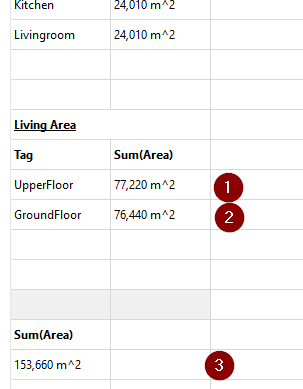
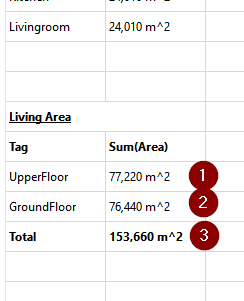
Add more controls to report config
This gives the user more freedom for designing a report. It is now
possible to add result rows for previous statements by checking the
right checkboxes.

fixes #6

Changed region(s): [[0.0, 0.0, 1.0, 1.0]]

diff --git a/report.py b/report.py
@@ -13,6 +13,7 @@ from PySide2.QtWidgets import QGroupBox
 from PySide2.QtWidgets import QLineEdit
 from PySide2.QtWidgets import QFormLayout
 from PySide2.QtWidgets import QPushButton
+from PySide2.QtWidgets import QCheckBox
 
 SQL_PARSER = freecad_sql_parser.newParser()
 
@@ -34,7 +35,11 @@ def nextColumnName(actualColumnName):
 
 
 def lineRange(startColumn, endColumn, lineNumber):
-    return '%s%s:%s%s' % (startColumn, lineNumber, endColumn, lineNumber)
+    return cellRange(startColumn, lineNumber, endColumn, lineNumber)
+
+
+def cellRange(startColumn, startLine, endColumn, endLine):
+    return '%s%s:%s%s' % (startColumn, startLine, endColumn, endLine)
 
 
 def buildCellName(columnName, lineNumber):
@@ -88,7 +93,11 @@ class ReportSpreadsheet(object):
 
         self.lineNumber += 1
 
-    def printRows(self, rows):
+    def printRows(self, rows, skipRowsAfter=False, printResultInBold=False):
+        lineNumberBefore = self.lineNumber
+
+        columnName = 'A'
+
         for row in rows:
             columnName = None
 
@@ -100,7 +109,12 @@ class ReportSpreadsheet(object):
 
             self.lineNumber += 1
 
-        self.lineNumber += 2
+        if printResultInBold:
+            self.spreadsheet.setStyle(
+                cellRange('A', lineNumberBefore, columnName, self.lineNumber), 'bold', 'add')
+
+        if not skipRowsAfter:
+            self.lineNumber += 2
 
     def setCellValue(self, cell, value):
         if value is None:
@@ -123,7 +137,7 @@ class ReportSpreadsheet(object):
 
 
 class ReportEntryWidget(QGroupBox):
-    def __init__(self, header, statement, panel, index):
+    def __init__(self, header, statement, skipRowsAfter, skipColumnNames, printResultInBold, panel, index):
         super().__init__()
 
         self.panel = panel
@@ -131,7 +145,14 @@ class ReportEntryWidget(QGroupBox):
 
         self.headerEdit = QLineEdit(header)
         self.statementEdit = QTextEdit(statement)
+        self.skipRowsAfterEdit = QCheckBox('Skip Empty Rows After Statement')
+        self.skipColumnNamesEdit = QCheckBox('Skip Column Names')
+        self.printResultInBoldEdit = QCheckBox('Print Result in bold')
         self.removeButton = QPushButton('Remove')
+
+        self.skipRowsAfterEdit.setChecked(skipRowsAfter)
+        self.skipColumnNamesEdit.setChecked(skipColumnNames)
+        self.printResultInBoldEdit.setChecked(printResultInBold)
 
         self.removeButton.clicked.connect(self.remove)
 
@@ -142,6 +163,9 @@ class ReportEntryWidget(QGroupBox):
 
         self.layout.addRow('Header', self.headerEdit)
         self.layout.addRow('Statement', self.statementEdit)
+        self.layout.addRow(' ', self.skipColumnNamesEdit)
+        self.layout.addRow(' ', self.skipRowsAfterEdit)
+        self.layout.addRow(' ', self.printResultInBoldEdit)
         self.layout.addRow(' ', self.removeButton)
 
         self.setLayout(self.layout)
@@ -152,10 +176,16 @@ class ReportEntryWidget(QGroupBox):
     def getStatement(self):
         return self.statementEdit.toPlainText()
 
-    def remove(self):
-        print(self.panel)
-        print(self.panel.entries)
+    def shouldSkipColumnNames(self):
+        return self.skipColumnNamesEdit.isChecked()
 
+    def shouldSkipRowsAfter(self):
+        return self.skipRowsAfterEdit.isChecked()
+
+    def shouldPrintResultInBold(self):
+        return self.printResultInBoldEdit.isChecked()
+
+    def remove(self):
         self.panel.removeRow(self)
 
 
@@ -177,10 +207,12 @@ class ReportConfigPanel():
 
     def setupRows(self):
         for statement in self.report.statements:
-            self.addRow(statement.header, statement.plainTextStatement)
+            self.addRow(statement.header, statement.plainTextStatement,
+                        statement.skipRowsAfter, statement.skipColumnNames, statement.printResultInBold)
 
-    def addRow(self, header=None, statement=None):
-        widget = ReportEntryWidget(header, statement, self, len(self.entries))
+    def addRow(self, header=None, statement=None, skipRowsAfter=False, skipColumnNames=False, printResultInBold=False):
+        widget = ReportEntryWidget(header, statement, skipRowsAfter,
+                                   skipColumnNames, printResultInBold, self, len(self.entries))
 
         self.entries.append(widget)
 
@@ -207,16 +239,19 @@ class ReportConfigPanel():
 
         for entry in self.entries:
             reportStatement = ReportStatement(
-                entry.getHeader(), entry.getStatement())
+                entry.getHeader(), entry.getStatement(), entry.shouldSkipRowsAfter(), entry.shouldSkipColumnNames(), entry.shouldPrintResultInBold())
 
             self.report.statements.append(reportStatement)
 
 
 class ReportStatement(object):
-    def __init__(self, header, plainTextStatement):
+    def __init__(self, header, plainTextStatement, skipRowsAfter=False, skipColumnNames=False, printResultInBold=False):
         self.header = header
         self.plainTextStatement = plainTextStatement
         self.statement = SQL_PARSER.parse(plainTextStatement)
+        self.skipRowsAfter = skipRowsAfter
+        self.skipColumnNames = skipColumnNames
+        self.printResultInBold = printResultInBold
 
         if DEBUG:
             print('parsed statement %s' % (plainTextStatement))
@@ -229,12 +264,14 @@ class ReportStatement(object):
         return self.statement.getColumnNames()
 
     def serializeState(self):
-        return [self.header, self.plainTextStatement]
+        return [self.header, self.plainTextStatement, self.skipRowsAfter, self.skipColumnNames, self.printResultInBold]
 
     @staticmethod
     def deserializeState(state):
+        if len(state) == 2:
+            return ReportStatement(state[0], state[1])
 
-        return ReportStatement(state[0], state[1])
+        return ReportStatement(state[0], state[1], state[2], state[3], state[4])
 
 
 class Report():
@@ -269,11 +306,13 @@ class Report():
 
             spreadsheet.printHeader(statement.header, len(columnNames))
 
-            spreadsheet.printColumnLabels(columnNames)
+            if not statement.skipColumnNames:
+                spreadsheet.printColumnLabels(columnNames)
 
             rows = statement.execute()
 
-            spreadsheet.printRows(rows)
+            spreadsheet.printRows(
+                rows, statement.skipRowsAfter, statement.printResultInBold)
 
         spreadsheet.recompute()
 

diff --git a/README.md b/README.md
@@ -54,7 +54,7 @@ What do we see here?
  - (2) The column names extracted from our statement
  - (3) The list of objects matching our statement and the values extracted for each column
 
-8. This is pretty good. But I think we can do even better. Double click the Report in the Treeview again. Click on ```Add Statement``` and add "Living Area" in the ```Header``` field and the following in the ```Statement``` field:
+8. This is pretty good. But I think we can do even better. Double click the Report in the Treeview again. Click on ```Add Statement``` and add "Living Area" in the ```Header``` field. Also enable ```Skip empty rows after statement``` here and add the following in the ```Statement``` field:
 
 ```sql
 Select Tag, Sum(Area)
@@ -63,10 +63,10 @@ Where IfcRole = 'Space'
 Group By Tag
 ```
 
-9. Click ```Add Statement``` once again and leave the ```Header``` field empty and add the following to the ```Statement``` field:
+9. Click ```Add Statement``` once again and leave the ```Header``` field empty. Enable ```Skip Column Names``` and ```Print Result in Bold``` and add the following to the ```Statement``` field:
 
 ```sql
-Select Sum(Area)
+Select 'Total', Sum(Area)
 From document
 Where IfcRole = 'Space'
 ```
